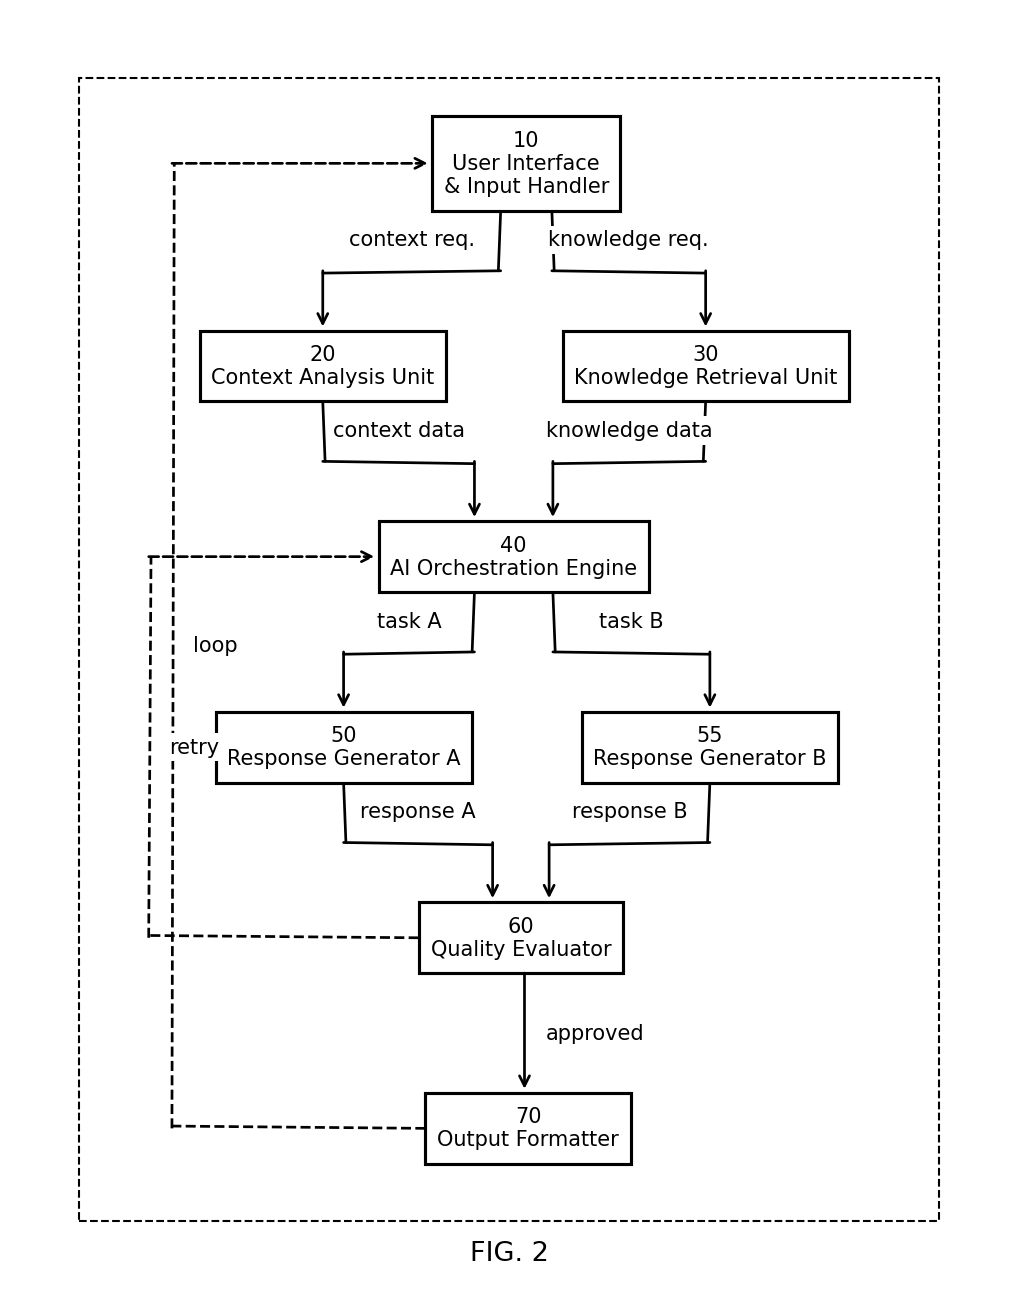
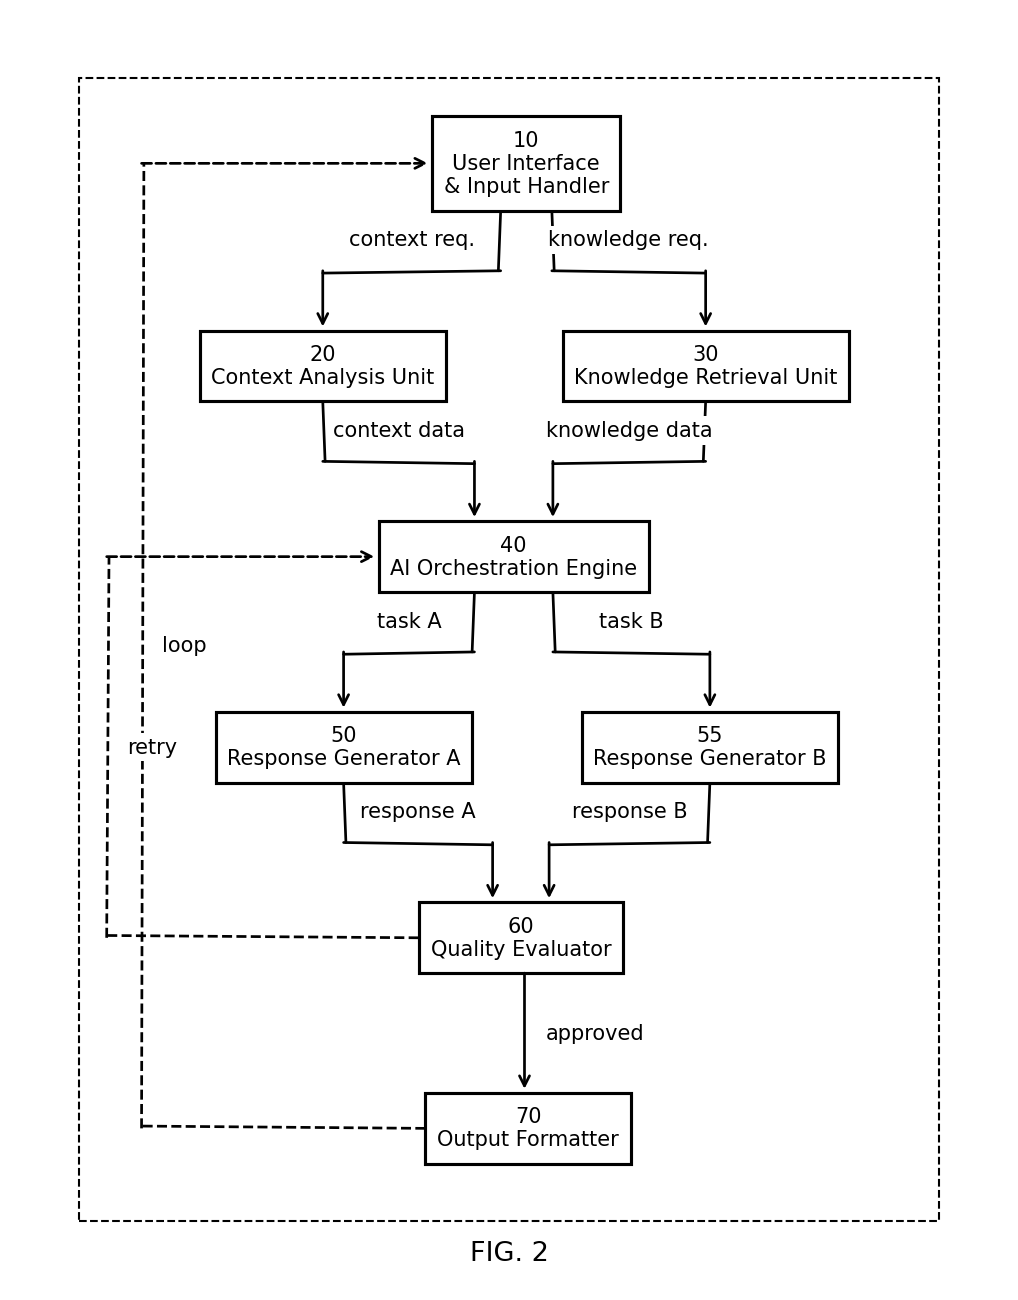
feat: SmartLayout v2 — multi-port, dashed feedback, safe via_y, separate feedback lanes
- Multi-port: N arrows on same box face auto-spread to distinct ports
  · _get_port(): equal-spaced ports with 0.15" edge margin
  · _build_port_assignments(): counts connections per (node, side) and assigns port index
  · Vertical snap: nearly-identical x values snapped to prevent tiny diagonal segments
- Feedback arrows dashed: ls='--' passed to arrow_route (dashed ISO lines)
- Feedback channel separation: each feedback edge gets its own x lane (0.30" gap)
  · ch_x computed dynamically: global_left - 0.50 - (n-1)*lane_gap
  · Ensures both lanes run fully outside all box rectangles
- _find_safe_via_y(): elbow routing avoids box penetration
  · Considers intermediate-rank boxes when computing safe via_y
  · Adequate gap (>=0.90"): exact midpoint; tight gap: below src rank
- test: research_layout/gen_fig2_v2.py + test_fig2_v2.png (0 warnings)

Changed region(s): [[0.1218, 0.4, 0.2436, 0.7692], [0.1218, 0.1231, 0.1827, 0.1538]]

diff --git a/research_layout/gen_fig2_v2.py b/research_layout/gen_fig2_v2.py
@@ -1,0 +1,65 @@
+"""
+gen_fig2_v2.py — SmartLayout v2 CIP FIG.2 테스트
+4가지 개선 사항 검증:
+  1. 멀티 포트: 동일 면에 N개 화살표 → 자동 분산
+  2. 피드백 점선 렌더링
+  3. 박스 통과 방지 (safe via_y)
+  4. 피드백 채널 분리 (각 피드백 별도 x 레인)
+"""
+import sys, os
+sys.path.insert(0, os.path.join(os.path.dirname(__file__), '..', 'scripts'))
+from smart_layout import SmartLayout
+
+OUTPUT = os.path.join(os.path.dirname(__file__), 'test_fig2_v2.png')
+
+def build_cip_fig2():
+    layout = SmartLayout('FIG. 2', orientation='portrait')
+
+    # Nodes — CIP AI 특허 FIG.2 구조 (멀티-포트 테스트 포함)
+    layout.node('10',  '10\nUser Interface\n& Input Handler')
+    layout.node('20',  '20\nContext Analysis Unit')
+    layout.node('30',  '30\nKnowledge Retrieval Unit')
+    layout.node('40',  '40\nAI Orchestration Engine')
+    layout.node('50',  '50\nResponse Generator A')
+    layout.node('55',  '55\nResponse Generator B')
+    layout.node('60',  '60\nQuality Evaluator')
+    layout.node('70',  '70\nOutput Formatter')
+
+    # Rank hints to enforce strict top-to-bottom ordering
+    layout.hint_rank('10', 0)
+    layout.hint_rank('20', 1)
+    layout.hint_rank('30', 1)
+    layout.hint_rank('40', 2)
+    layout.hint_rank('50', 3)
+    layout.hint_rank('55', 3)
+    layout.hint_rank('60', 4)
+    layout.hint_rank('70', 5)
+
+    # Group same-rank nodes side by side
+    layout.hint_group(['20', '30'], direction='horizontal')
+    layout.hint_group(['50', '55'], direction='horizontal')
+
+    # Forward edges
+    layout.edge('10', '20', label='context req.')
+    layout.edge('10', '30', label='knowledge req.')
+    # Both 20 and 30 flow into 40 → bottom face: multi-port test
+    layout.edge('20', '40', label='context data')
+    layout.edge('30', '40', label='knowledge data')
+    layout.edge('40', '50', label='task A')
+    layout.edge('40', '55', label='task B')
+    # Both 50 and 55 flow into 60 → top face: multi-port test
+    layout.edge('50', '60', label='response A')
+    layout.edge('55', '60', label='response B')
+    layout.edge('60', '70', label='approved')
+
+    # Feedback edges (dashed, separate lanes)
+    layout.edge('60', '40', label='retry', feedback=True)
+    layout.edge('70', '10', label='loop', feedback=True)
+
+    layout.render(OUTPUT)
+    print(f'✓ Generated: {OUTPUT}')
+
+
+if __name__ == '__main__':
+    build_cip_fig2()
+    print('DONE')

diff --git a/scripts/smart_layout.py b/scripts/smart_layout.py
@@ -570,17 +570,26 @@ class SmartLayout:
 
         # ── Draw feedback edges (dashed, separated lanes) ─────────────────────
         if feedback_edges:
-            # Base x channel: just inside the feedback reserve area
-            # Lane 0 is outermost (leftmost), increasing lanes go right
-            ch_x_base = self.content_left + 0.15
+            # Compute the leftmost box edge across all nodes to ensure channels
+            # are placed clearly outside (to the left of) any box
+            all_box_lefts = [info['box_ref'].left
+                             for info in self._nodes.values()
+                             if info['box_ref'] is not None]
+            global_left = min(all_box_lefts) if all_box_lefts else self.content_left
+            # Lane 0 is outermost (leftmost), each successive lane is closer
+            # to the boxes but still clearly outside the leftmost edge
+            lane_gap = 0.30
+            # Reserve enough space: n_feedback * lane_gap + 0.50 clearance minimum
+            ch_x_base = global_left - 0.50 - (len(feedback_edges) - 1) * lane_gap
             for lane_idx, (idx, e) in enumerate(feedback_edges):
                 sb = self._nodes[e['src']]['box_ref']
                 db = self._nodes[e['dst']]['box_ref']
                 if sb is None or db is None:
                     continue
                 lbl = e['label'] or ''
-                ch_x = ch_x_base + lane_idx * self.feedback_lane_gap
-                # Dashed feedback: src.left → ch_x → db.left (dashed line)
+                # Lane 0 = outermost, lane 1 = closer to boxes (but still outside)
+                ch_x = ch_x_base + lane_idx * lane_gap
+                # Dashed feedback: src.left → ch_x → dst.left (dashed line)
                 d.arrow_route([
                     sb.left_mid(),
                     ('left_to', ch_x),
